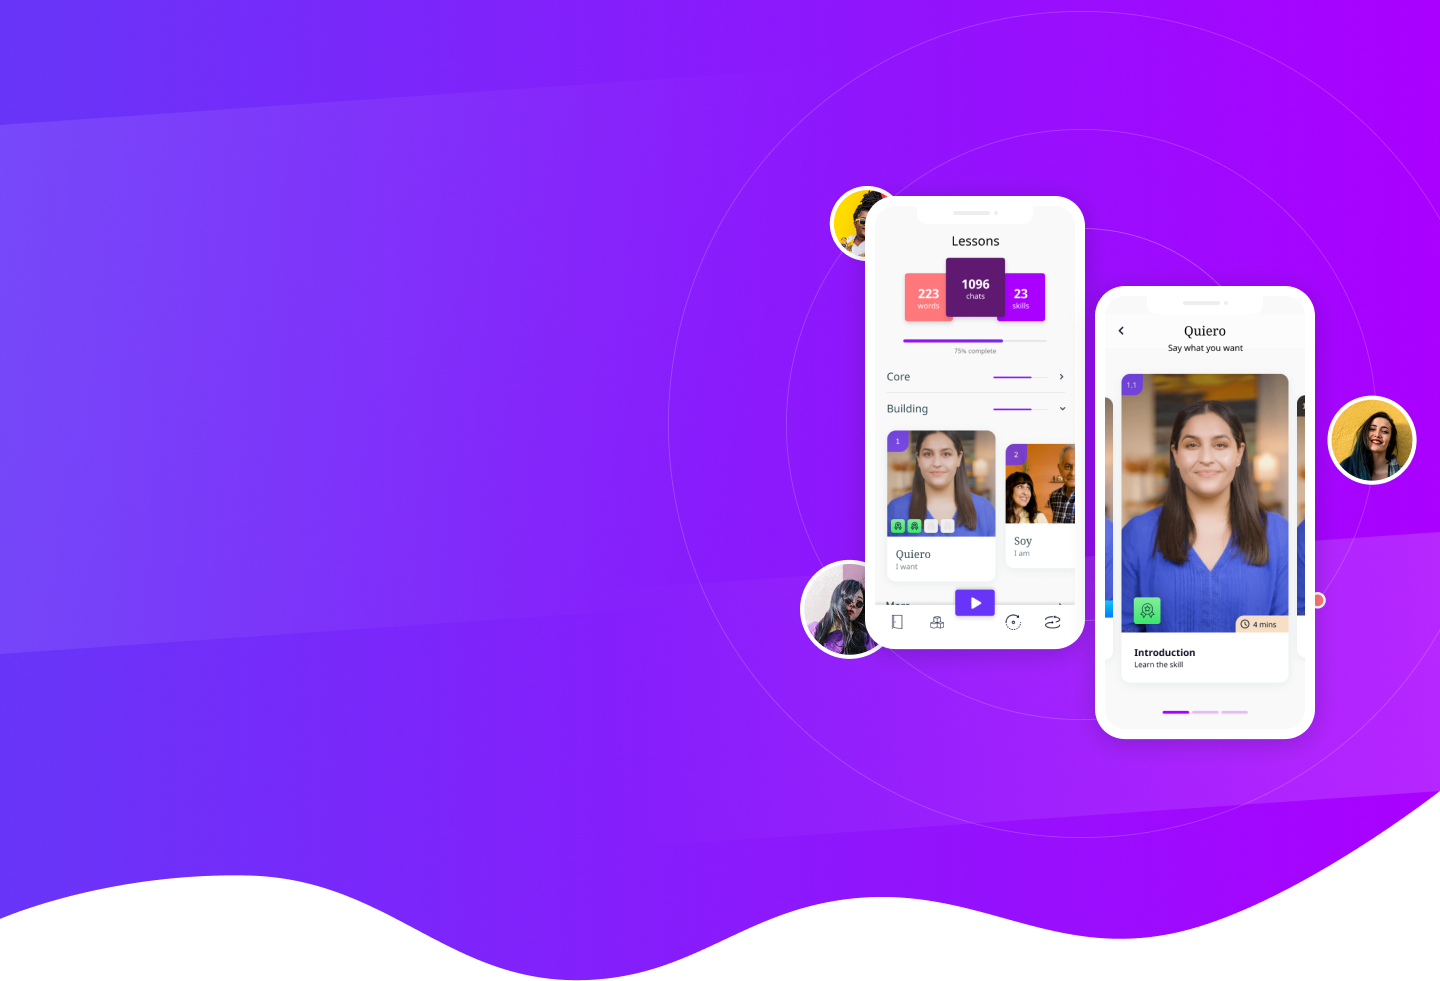
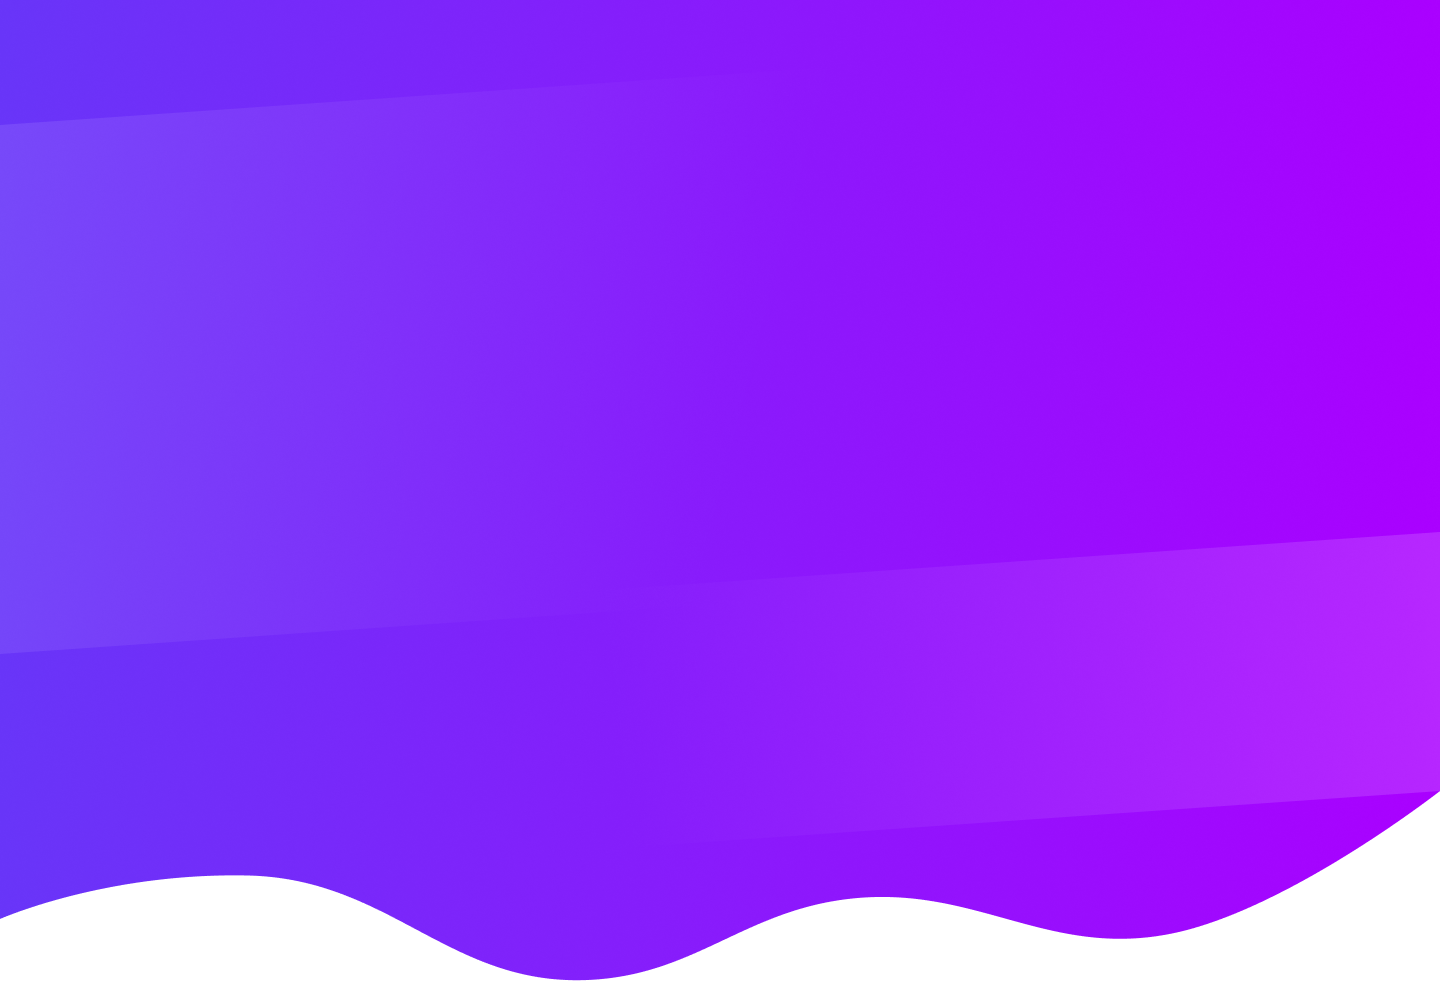
Top Component

Changed region(s): [[0.5312, 0.1835, 1.0, 0.7645]]

diff --git a/src/pages/Home/styles.scss b/src/pages/Home/styles.scss
@@ -1,92 +1,3 @@
 .home-container {
   width: 100%;
-  .graphic-top {
-    text-align: left;
-    width: auto;
-    height: auto;
-    background-image: url('../../assets/images/top-back-pc.png');
-    background-repeat: no-repeat;
-    background-size: 100% 100%;
-    padding: 20px 9.3vw 9.3vw 200px;
-    position: relative;
-    overflow: hidden;
-    .demo-image-wrapper {
-      position: absolute;
-      background-image: url('../../assets/images/demo.png');
-      width: 56vw;
-      height: 56vw;
-      min-width: 500px;
-      min-height: 500px;
-      top: 1vw;
-      right: -4vw;
-      background-size: 100% 100%;
-    }
-    .top-content {
-      width: 52%;
-      color: white;
-      margin-top: 104px;
-      .top-text {
-        .title {
-          font-size: 60px;
-          line-height: 72px;
-          font-weight: 600;
-          letter-spacing: -0.04em;
-        }
-        .content {
-          font-size: 16px;
-          font-weight: 400;
-          line-height: 24px;
-          margin-right: 50px;
-          margin-top: 20px;
-        }
-      }
-      .apple-get {
-        margin-top: 40px;
-        .title {
-          font-size: 18px;
-          font-weight: 500;
-          line-height: 24px;
-          letter-spacing: -0.04em;
-        }
-        img {
-          margin-top: 10px;
-        }
-      }
-      .signup-form {
-        margin: 30px 0;
-        padding: 20px;
-        width: 429px;
-        background: rgba(0, 0, 0, 0.2);
-        border-radius: 10px;
-        .title {
-          font-size: 16px;
-          line-height: 24px;
-        }
-        .input {
-          margin-top: 20px;
-          input, input:focus-visible {
-            background: transparent;
-            border: none;
-            border-bottom: 1px solid white;
-            outline: none;
-            color: white;
-            margin-right: 20px;
-            font-size: 22px;
-            padding: 10px;
-          }
-          button {
-            background: #F95761;
-            padding: 15px 20px;
-            font-family: 'Noto Sans';
-            font-size: 16px;
-            font-weight: 500;
-            line-height: 24px;
-            color: white;
-            border-radius: 5px;
-            border: none;
-          }
-        }
-      }
-    }
-  }
 }

diff --git a/src/components/Top/styles.scss b/src/components/Top/styles.scss
@@ -1,0 +1,89 @@
+.graphic-top {
+  text-align: left;
+  width: auto;
+  height: auto;
+  background-image: url('../../assets/images/top-back-pc.png');
+  background-repeat: no-repeat;
+  background-size: 100% 100%;
+  padding: 20px 0 200px 9.3vw;
+  position: relative;
+  overflow: hidden;
+  display: flex;
+  justify-content: space-between;
+  .top-content {
+    width: 52%;
+    max-width: 600px;
+    color: white;
+    margin-top: 174px;
+    .top-text {
+      .title {
+        font-size: 60px;
+        line-height: 72px;
+        font-weight: 600;
+        letter-spacing: -0.04em;
+      }
+      .content {
+        font-size: 16px;
+        font-weight: 400;
+        line-height: 24px;
+        margin-right: 50px;
+        margin-top: 20px;
+      }
+    }
+    .apple-get {
+      margin-top: 40px;
+      .title {
+        font-size: 18px;
+        font-weight: 500;
+        line-height: 24px;
+        letter-spacing: -0.04em;
+      }
+      img {
+        margin-top: 10px;
+      }
+    }
+    .signup-form {
+      margin: 30px 0;
+      padding: 20px;
+      width: 429px;
+      background: rgba(0, 0, 0, 0.2);
+      border-radius: 10px;
+      .title {
+        font-size: 16px;
+        line-height: 24px;
+      }
+      .input {
+        margin-top: 20px;
+        input, input:focus-visible {
+          background: transparent;
+          border: none;
+          border-bottom: 1px solid white;
+          outline: none;
+          color: white;
+          margin-right: 20px;
+          font-size: 22px;
+          padding: 10px;
+        }
+        button {
+          background: #F95761;
+          padding: 15px 20px;
+          font-family: 'Noto Sans';
+          font-size: 16px;
+          font-weight: 500;
+          line-height: 24px;
+          color: white;
+          border-radius: 5px;
+          border: none;
+        }
+      }
+    }
+  }
+  .image-demo {
+    width: 58vw;
+    height: 58vw;
+    max-width: 827px;
+    max-height: 827px;
+    margin-left: -8%;
+    margin-right: -4.5%;
+  }
+}

diff --git a/src/pages/Home/index.js b/src/pages/Home/index.js
@@ -1,8 +1,8 @@
 
 import Navbar from 'components/Navbar';
-import AppleImage from 'assets/images/apple.png'
 
 import './styles.scss'
+import Top from 'components/Top';
 import HowTo from 'components/HowTo';
 import Lessons from 'components/Lessons';
 import Testimonials from 'components/Testimonials';
@@ -13,31 +13,8 @@ import Footer from 'components/Footer';
 function Home() {
   return (
     <div className="home-container">
-      <div className="graphic-top">
-        <Navbar />
-        <div className="top-content">
-          <div className="top-text">
-            <div className="title">What if a tutor and an app had a baby?</div>
-            <div className="content">
-              Kleo captures the magic of learning from a person - in your phone. 
-              A friend that guides you through a world where you can learn without limits and practice without judgement. 
-              Talk with Kleo anywhere, be understood everywhere</div>
-          </div>
-          <div className="apple-get">
-            <div className="title">Get the App</div>
-            <img src={AppleImage} alt="apple-link" />
-          </div>
-          <div className="signup-form">
-            <div className="title">
-              Sign up to get announcements: like new language or the Android release
-            </div>
-            <div className="input">
-              <input type="text" />
-              <button type="button">Meet Kleo</button>
-            </div>
-          </div>
-        </div>
-      </div>
+      <Navbar />
+      <Top />
       <HowTo />
       <Lessons />
       <Testimonials />

diff --git a/src/components/Top/index.js b/src/components/Top/index.js
@@ -1,0 +1,32 @@
+import AppleImage from 'assets/images/apple.png'
+import Demo from 'assets/images/demo.png'
+import './styles.scss'
+export default function Top() {
+  return (
+    <div className="graphic-top">
+      <div className="top-content">
+        <div className="top-text">
+          <div className="title">What if a tutor and an app had a baby?</div>
+          <div className="content">
+            Kleo captures the magic of learning from a person - in your phone. 
+            A friend that guides you through a world where you can learn without limits and practice without judgement. 
+            Talk with Kleo anywhere, be understood everywhere</div>
+        </div>
+        <div className="apple-get">
+          <div className="title">Get the App</div>
+          <img src={AppleImage} alt="apple-link" />
+        </div>
+        <div className="signup-form">
+          <div className="title">
+            Sign up to get announcements: like new language or the Android release
+          </div>
+          <div className="input">
+            <input type="text" />
+            <button type="button">Meet Kleo</button>
+          </div>
+        </div>
+      </div>
+      <img className="image-demo" src={Demo} alt="Demo" />
+    </div>
+  )
+}

diff --git a/src/components/HowTo/styles.scss b/src/components/HowTo/styles.scss
@@ -3,24 +3,21 @@
   padding: 50px 9.3vw;
   .dash-title {
     display: flex;
-    flex-direction: column;
+    justify-content: center;
     align-items: center;
     position: relative;
     .dash {
-      width: 600px;
+      width: 100px;
       height: 2px;
-      background: linear-gradient(90deg, #6835F8 0%, #AA00FF 100%);
-      position: absolute;
-      top: 28px;
+      background: linear-gradient(90deg, #6835F8 0%, #AA00FF 100%);;
     }
     .title {
       font-weight: 700;
       font-size: 42px;
       line-height: 57.2px;
       color: #050C28;
-      background: white;
-      padding: 0 50px;
       position: relative;
+      margin: 0 50px;
     }
   }
   .card-wrapper {

diff --git a/src/components/HowTo/index.js b/src/components/HowTo/index.js
@@ -53,6 +53,7 @@ export default function HowTo() {
       <div className="dash-title">
         <div className="dash" />
         <div className="title">How It Works</div>
+        <div className="dash" />
       </div>
       <div className="card-wrapper">
         {cardData.map((cd, idx) =>
